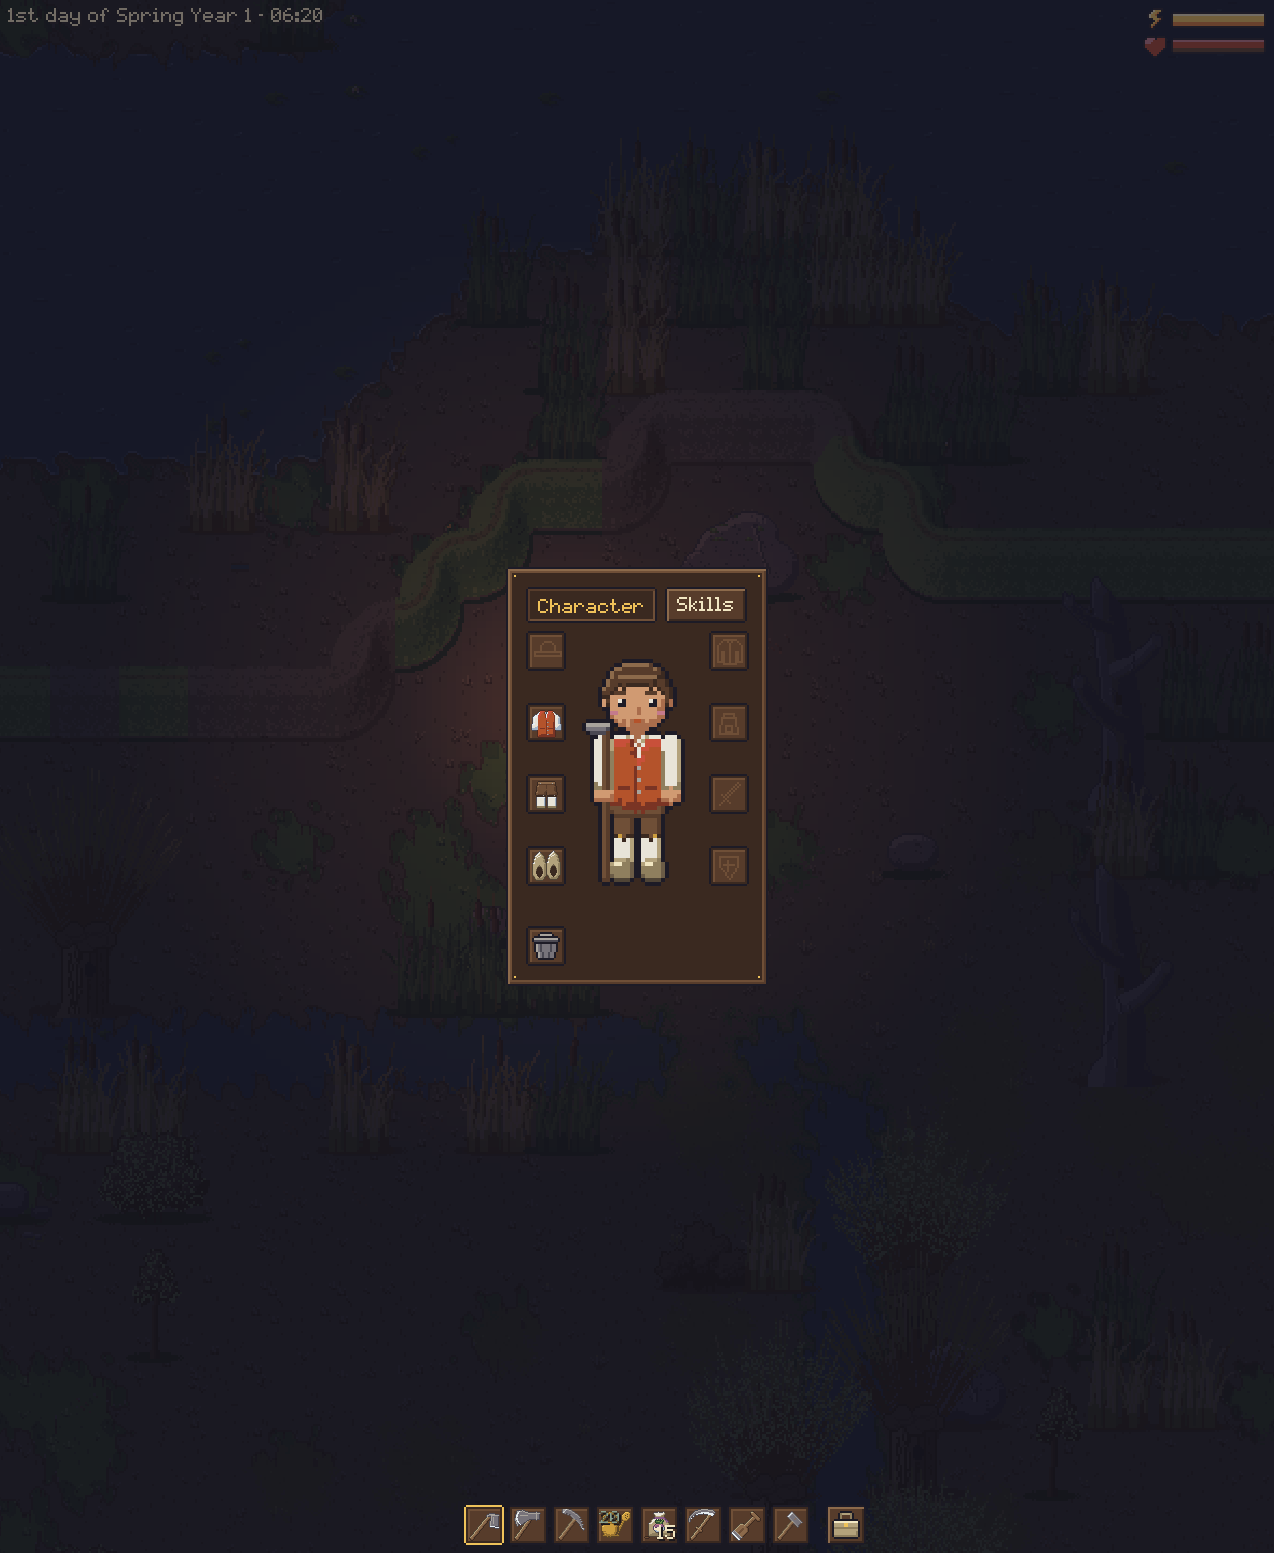
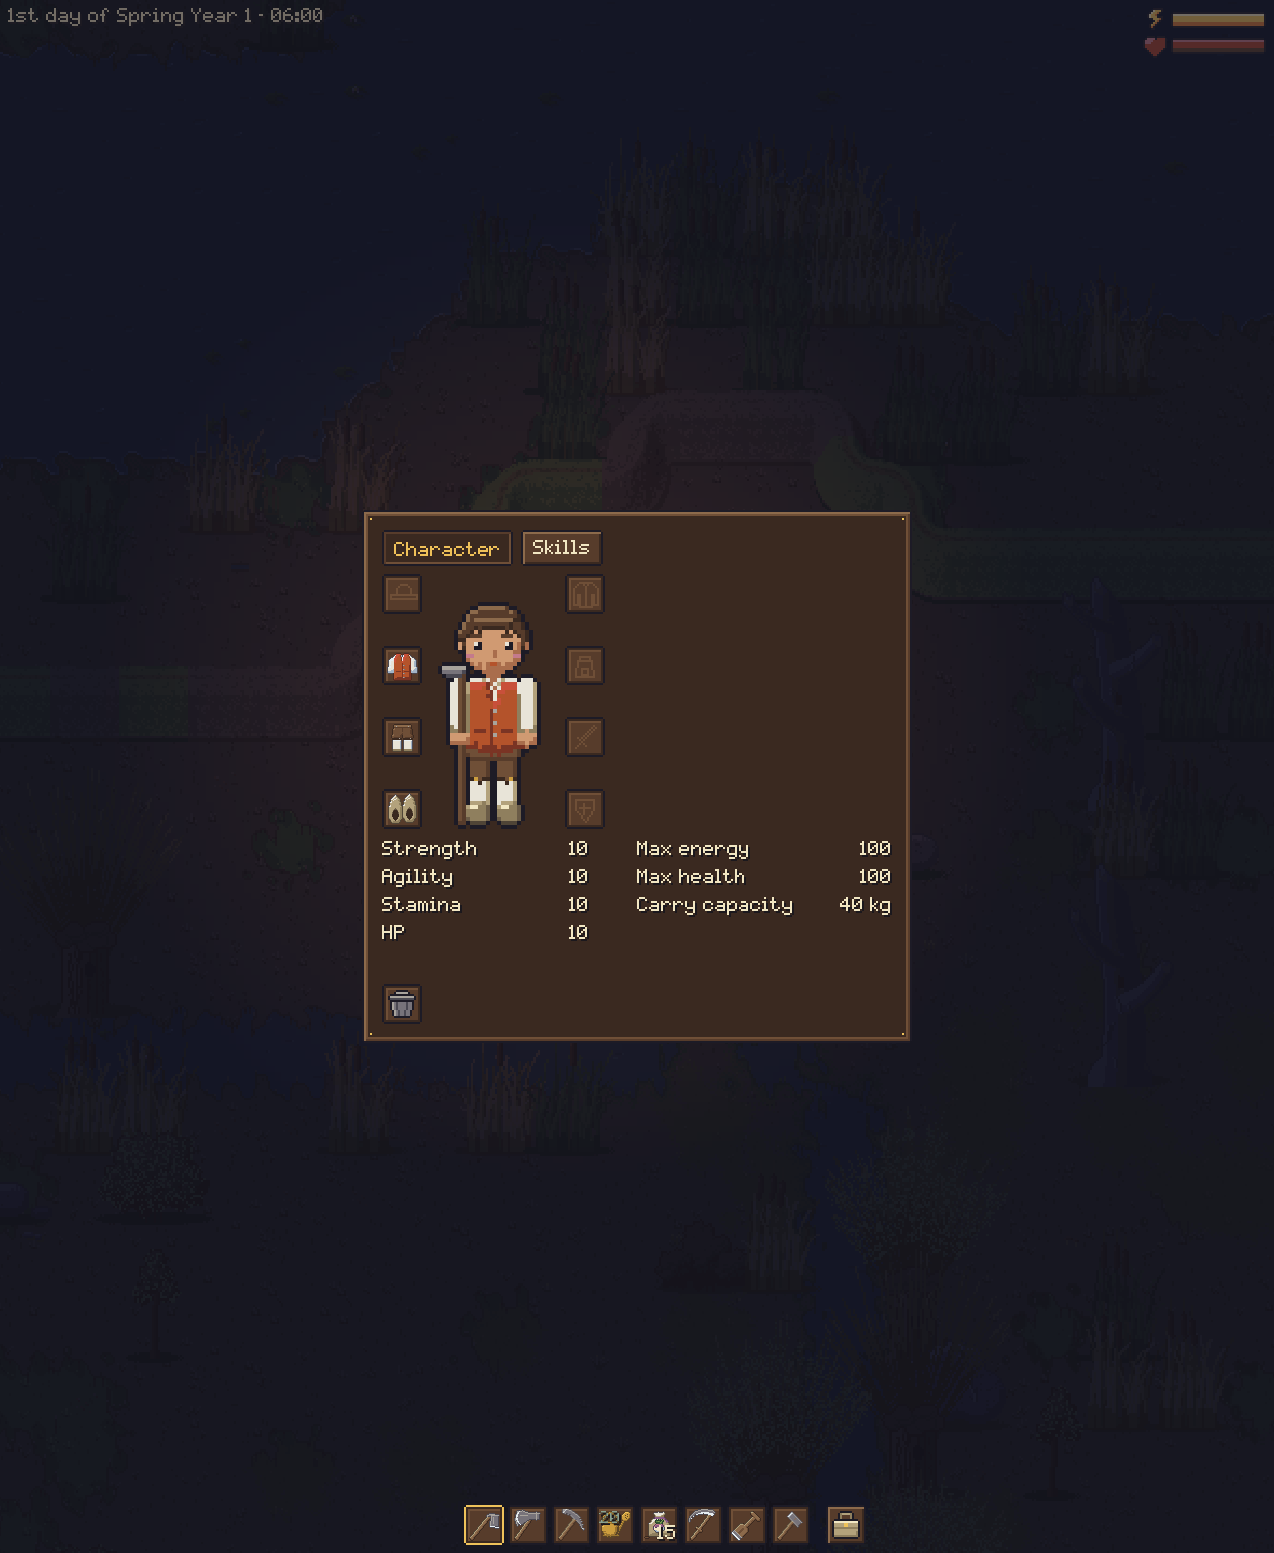
Character window: the attributes and what they give, below the figure
AttributesPanel lists the four levels (a bonus beside its level, a tooltip each) and the
maximum energy, maximum health and carry capacity. README screenshots of the bag and the
character window retaken.

Changed region(s): [[0.2755, 0.3091, 0.7347, 0.68]]

diff --git a/README.md b/README.md
@@ -563,9 +563,9 @@ nothing. Below 20 % energy the character sweats with every action, and below 10 
 head at midnight and again at half past, while you are still awake: you pass out an hour
 after midnight.
 
-![The bag with the backpack, and the character window with the equipment slots](docs/screenshots/bag.png)
+![The bag with the backpack and its weight over the carry capacity, and the character window with the equipment slots](docs/screenshots/bag.png)
 
-![The character window with the equipment slots and the skills tab beside it](docs/screenshots/character.png)
+![The character window with the equipment slots, the attributes and what they give, and the skills tab beside it](docs/screenshots/character.png)
 
 The items are drawn at 32 px like the world, so in the slots an icon's pixel is as big as a
 world pixel at the widest view; an item on the ground is its icon at half size, on a small

diff --git a/design/player/inventory-and-character.md b/design/player/inventory-and-character.md
@@ -122,3 +122,5 @@
   bonus belongs to a source and is not saved), so a new attribute or bonus source touches that
   class and the data file, and a villager or an animal can own one later. The levels are saved
   (save version 30); how a level grows is open, the console's `attribute` sets it for testing.
+  The character tab (C) shows them below the figure: each level (a bonus beside it, "12 (+2)") with
+  the attribute's tooltip, and the maximum energy, maximum health and carry capacity they give.
